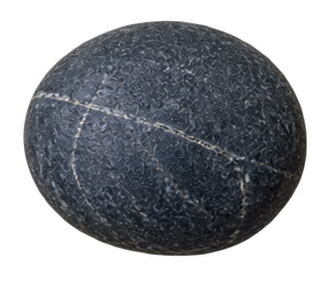
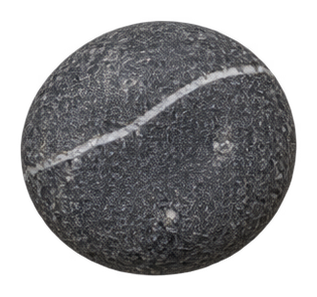
Add files via upload

diff --git a/index.html b/index.html
@@ -1,1 +1,1 @@
-<!doctype html><html lang="ko"><head><meta charset="utf-8"><meta name="viewport" content="width=device-width,initial-scale=1"><title>나만의 자연 생물 공방</title><link rel="stylesheet" href="style.css"></head><body><header><a href="./">🌿 나만의 자연 <strong>생물 공방</strong></a><span>4학년 과학 · 생물과 환경</span><small id="autosave">이 기기에 자동 저장</small></header><main><section><div class="topline"><div><small>돌과 나뭇잎으로 생물의 모습을 표현해요</small><h1>내 손으로 만드는 자연 친구</h1></div><div class="actions"><button id="help">사용 방법</button><button id="download" class="primary">↓ 작품 이미지 저장</button></div></div><div class="personalSettings"><label>배경<select id="paper"><option value="#ffffff">흰색</option><option value="#f5f7eb">연한 초록</option><option value="#e0f2fa">연한 하늘</option><option value="#fff5e8">연한 크림</option><option value="#1c2e40">밤하늘</option><option value="transparent">투명 배경</option></select></label><label>배경 색<input id="paperColor" type="color" value="#ffffff"></label><label><input id="includeCaption" type="checkbox" checked> 저장 이미지에 이름·설명 넣기</label><span id="ready">자연 재료를 준비하고 있어요…</span></div><div id="editor" class="editor"><aside><h3>자연 재료</h3><p>눌러서 추가하거나 끌어 넣어요.</p><div class="filters"><button data-filter="leaf">나뭇잎</button><button data-filter="stone">돌</button><button data-filter="all">전체</button></div><div id="materials"></div><small>사진처럼 제작한 자연 재료 이미지</small></aside><div><div class="tools"><button data-mode="select" class="active">↖ 이동</button><button data-mode="pen">✎ 그리기</button><button data-mode="eraser">지우개</button><label>색<input id="color" type="color" value="#273e35"></label><label>굵기<input id="brush" type="range" min="2" max="40" value="8"></label><button id="undo">↶ 취소</button><button id="redo">↷ 다시</button></div><canvas id="canvas" width="1000" height="700" aria-label="생물 꾸미기 작업판"></canvas><div class="tools"><button id="smaller">작게</button><button id="bigger">크게</button><button id="rotate">회전 ↻</button><button id="flip">뒤집기</button><button id="front">맨 앞으로</button><button id="remove">선택 삭제</button><button id="clear">모두 지우기</button></div><div class="caption"><label>생물 이름<input id="title" maxlength="30" placeholder="어떤 생물을 표현했나요?"></label><label>표현한 특징<input id="description" maxlength="120" placeholder="예: 돌로 몸을, 나뭇잎으로 날개를 표현했어요."></label></div><p class="hint">이동 도구에서 한 손가락으로 옮기고, 두 손가락으로 확대·축소·회전해요. 눈, 다리, 무늬는 그려 넣어요. 완성한 작품은 위쪽 이미지 저장 버튼으로 내려받아요.</p></div></div></section></main><div id="toast" role="status"></div><dialog id="helpDialog"><button id="closeHelp">닫기 ✕</button><h2>나만의 생물 만들기</h2><ol><li>만들고 싶은 생물을 정해요.</li><li>나뭇잎·돌을 누르면 작업판에 추가돼요. PC에서는 끌어 넣어도 돼요.</li><li>이동 도구에서 이동 도구에서 한 손가락으로 옮기고, 두 손가락으로 확대·축소·회전해요.</li><li>그리기로 눈·다리·무늬를 넣어요. 지우개는 지나간 위치의 그림과 재료를 지워요.</li><li>생물 이름과 표현한 특징을 적어요.</li><li>작품 이미지 저장을 누르면 PNG로 내려받아요.</li></ol><p>갤럭시탭에서는 가로로 사용하면 작업판이 더 크게 보여요.</p></dialog><script src="app.js" defer></script></body></html>
+<!doctype html><html lang="ko"><head><meta charset="utf-8"><meta name="viewport" content="width=device-width,initial-scale=1"><title>나만의 자연 생물 공방</title><link rel="stylesheet" href="style.css"></head><body><header><a href="./">🌿 나만의 자연 <strong>생물 공방</strong></a><span>4학년 과학 · 생물과 환경</span><small id="autosave">이 기기에 자동 저장</small></header><main><section><div class="topline"><div><small>돌과 나뭇잎으로 생물의 모습을 표현해요</small><h1>내 손으로 만드는 자연 친구</h1></div><div class="actions"><button id="help">사용 방법</button><button id="download" class="primary">↓ 작품 이미지 저장</button></div></div><div class="personalSettings"><label>배경<select id="paper"><option value="#ffffff">흰색</option><option value="#f5f7eb">연한 초록</option><option value="#e0f2fa">연한 하늘</option><option value="#fff5e8">연한 크림</option><option value="#1c2e40">밤하늘</option><option value="transparent">투명 배경</option></select></label><label>배경 색<input id="paperColor" type="color" value="#ffffff"></label><label><input id="includeCaption" type="checkbox" checked> 저장 이미지에 이름·설명 넣기</label><span id="ready">자연 재료를 준비하고 있어요…</span></div><div id="editor" class="editor"><aside><h3>자연 재료</h3><p>눌러서 추가하거나 끌어 넣어요.</p><div class="filters"><button data-filter="leaf">나뭇잎</button><button data-filter="stone">돌</button><button data-filter="all">전체</button></div><div id="materials"></div><small>사진처럼 제작한 자연 재료 이미지</small></aside><div><div class="tools"><button data-mode="select" class="active">↖ 이동</button><button data-mode="pen">✎ 그리기</button><button data-mode="eraser">지우개</button><label>색<input id="color" type="color" value="#273e35"></label><label>굵기<input id="brush" type="range" min="2" max="40" value="8"></label><button id="undo">↶ 취소</button><button id="redo">↷ 다시</button></div><canvas id="canvas" width="1000" height="700" aria-label="생물 꾸미기 작업판"></canvas><div class="tools"><button id="smaller">작게</button><button id="bigger">크게</button><button id="rotate">회전 ↻</button><button id="flip">뒤집기</button><button id="front">맨 앞으로</button><button id="remove">선택 삭제</button><button id="clear">모두 지우기</button></div><div class="caption"><label>생물 이름<input id="title" maxlength="30" placeholder="어떤 생물을 표현했나요?"></label><label>표현한 특징<input id="description" maxlength="120" placeholder="예: 돌로 몸을, 나뭇잎으로 날개를 표현했어요."></label></div><p class="hint">이동 도구에서 한 손가락으로 옮기고, 두 손가락으로 확대·축소·회전해요. 눈, 다리, 무늬는 그려 넣어요. 완성한 작품은 위쪽 이미지 저장 버튼으로 내려받아요.</p></div></div></section></main><div id="toast" role="status"></div><dialog id="helpDialog"><button id="closeHelp">닫기 ✕</button><h2>나만의 생물 만들기</h2><ol><li>만들고 싶은 생물을 정해요.</li><li>나뭇잎·돌을 누르면 작업판에 추가돼요. PC에서는 끌어 넣어도 돼요.</li><li>이동 도구에서 이동 도구에서 한 손가락으로 옮기고, 두 손가락으로 확대·축소·회전해요.</li><li>그리기로 눈·다리·무늬를 넣어요. 지우개는 지나간 위치의 그림과 재료를 지워요.</li><li>생물 이름과 표현한 특징을 적어요.</li><li>작품 이미지 저장을 누르면 PNG로 내려받아요.</li></ol><p>갤럭시탭에서는 가로로 사용하면 작업판이 더 크게 보여요.</p></dialog><script src="app.js?v=materials3" defer></script></body></html>

diff --git a/app.js b/app.js
@@ -3,9 +3,9 @@ const $=id=>document.getElementById(id);let objects=[],selected=null,mode='selec
 
 const toast=t=>{ $('toast').textContent=t;$('toast').style.display='block';clearTimeout(toast.timer);toast.timer=setTimeout(()=>$('toast').style.display='none',3500)};
 const safe=async f=>{try{await f()}catch(e){console.error(e);toast(e.message||'연결을 확인해 주세요.')}};
-const names=['초록 잎','버들잎','단풍잎','은행잎','붉은 잎','갈색 잎','고사리','둥근 잎','회색 돌','얼룩 돌','베이지 돌','흰 돌','검은 돌','갈색 돌','작은 돌','긴 돌'];
-await Promise.all(Array.from({length:16},(_,i)=>new Promise(resolve=>{const im=new Image();im.onload=()=>{images[i]=im;resolve()};im.onerror=resolve;im.src=`assets/material-${String(i+1).padStart(2,'0')}.png`})));
-function palette(filter='all'){ $('materials').replaceChildren();images.forEach((im,i)=>{if((filter==='leaf'&&i>7)||(filter==='stone'&&i<8))return;const b=document.createElement('button');b.title=names[i];const img=im.cloneNode();img.alt=names[i];img.draggable=true;img.ondragstart=e=>e.dataTransfer.setData('text/plain',String(i));b.append(img);b.onclick=()=>add(i,500,350);$('materials').append(b)})}palette();
+const names=['초록 잎','버들잎','단풍잎','은행잎','붉은 잎','갈색 잎','고사리','둥근 잎','회색 돌','얼룩 돌','베이지 돌','흰 돌','검은 돌','갈색 돌','작은 돌','긴 돌','노란 자작나무 낙엽','주황 느티나무 낙엽'];
+await Promise.all(Array.from({length:18},(_,i)=>new Promise(resolve=>{const im=new Image();im.onload=()=>{images[i]=im;resolve()};im.onerror=resolve;im.src=`assets/material-${String(i+1).padStart(2,'0')}.png?v=materials3`})));
+function palette(filter='all'){ $('materials').replaceChildren();images.forEach((im,i)=>{if((filter==='leaf'&&i>=8&&i<16)||(filter==='stone'&&(i<8||i>=16)))return;const b=document.createElement('button');b.title=names[i];const img=im.cloneNode();img.alt=names[i];img.draggable=true;img.ondragstart=e=>e.dataTransfer.setData('text/plain',String(i));b.append(img);b.onclick=()=>add(i,500,350);$('materials').append(b)})}palette();
 document.querySelectorAll('[data-filter]').forEach(b=>b.onclick=()=>palette(b.dataset.filter));
 const canvas=$('canvas'),ctx=canvas.getContext('2d');const position=(e,c=canvas)=>{const r=c.getBoundingClientRect();return {x:(e.clientX-r.left)*c.width/r.width,y:(e.clientY-r.top)*c.height/r.height}};
 function stash(){history.push(JSON.stringify(objects));if(history.length>40)history.shift();future=[]}
@@ -49,7 +49,7 @@ function finish(e){
  else if(!activePointers.size){gesture=null;if(drag){drag=null;changed();}}
 }
 canvas.onpointerup=finish;canvas.onpointercancel=finish;canvas.onlostpointercapture=finish;
-canvas.ondragover=e=>e.preventDefault();canvas.ondrop=e=>{e.preventDefault();const i=Number(e.dataTransfer.getData('text/plain'));if(Number.isInteger(i)&&i>=0&&i<16){const p=position(e);add(i,p.x,p.y)}};
+canvas.ondragover=e=>e.preventDefault();canvas.ondrop=e=>{e.preventDefault();const i=Number(e.dataTransfer.getData('text/plain'));if(Number.isInteger(i)&&i>=0&&i<18){const p=position(e);add(i,p.x,p.y)}};
 function alter(f){const o=objects.find(o=>o.id===selected);if(!o)return toast('먼저 재료를 선택하세요.');stash();f(o);changed()}
 $('smaller').onclick=()=>alter(o=>{o.w=Math.max(35,o.w*.85);o.h=Math.max(35,o.h*.85)});$('bigger').onclick=()=>alter(o=>{o.w=Math.min(700,o.w*1.15);o.h=Math.min(700,o.h*1.15)});$('rotate').onclick=()=>alter(o=>o.angle+=Math.PI/12);$('flip').onclick=()=>alter(o=>o.flip=!o.flip);$('front').onclick=()=>alter(o=>{objects=objects.filter(v=>v!==o);objects.push(o)});$('remove').onclick=()=>alter(o=>objects=objects.filter(v=>v!==o));$('clear').onclick=()=>{if(confirm('내 작업판을 모두 지울까요?')){stash();objects=[];changed()}};
 $('undo').onclick=()=>{if(history.length){future.push(JSON.stringify(objects));objects=JSON.parse(history.pop());selected=null;changed()}};$('redo').onclick=()=>{if(future.length){history.push(JSON.stringify(objects));objects=JSON.parse(future.pop());selected=null;changed()}};
@@ -65,5 +65,5 @@ function wrapText(t,text,maxWidth){const rows=[];let line='';for(const ch of tex
 function exportCanvas(){const c=document.createElement('canvas'),a=document.createElement('canvas');a.width=1000;a.height=700;render(a.getContext('2d'),objects,false);c.width=1600;const withCaption=$('includeCaption').checked&&($('title').value.trim()||$('description').value.trim());const t=c.getContext('2d');t.font='28px sans-serif';const lines=wrapText(t,$('description').value.trim(),1480);c.height=1120+(withCaption?110+lines.length*40:0);const paper=$('paper').value==='custom'?$('paperColor').value:$('paper').value;if(paper!=='transparent'){t.fillStyle=paper;t.fillRect(0,0,c.width,c.height)}t.drawImage(a,0,0,1600,1120);if(withCaption){t.fillStyle='#ffffff';t.fillRect(0,1120,1600,c.height-1120);t.fillStyle='#263f33';t.font='bold 38px sans-serif';t.fillText($('title').value.trim(),60,1180);t.font='28px sans-serif';lines.forEach((line,i)=>t.fillText(line,60,1225+i*40))}return c}
 $('help').onclick=()=>$('helpDialog').showModal();$('closeHelp').onclick=()=>$('helpDialog').close();
 try{const draft=JSON.parse(localStorage.getItem('nature-personal-draft-v1')||'null');if(draft&&Array.isArray(draft.objects)){objects=draft.objects;$('title').value=draft.title||'';$('description').value=draft.description||'';$('paper').value=draft.paper||'#ffffff';$('paperColor').value=draft.paperColor||'#ffffff';$('includeCaption').checked=draft.includeCaption!==false}}catch{toast('임시 저장 자료를 불러오지 못했어요. 새로 만들 수 있어요.')}
-applyPaper();render();$('ready').textContent=images.filter(Boolean).length===16?'나뭇잎 8종 · 돌 8종 준비 완료':'일부 재료를 불러오지 못했어요. 새로고침해 주세요.';
+applyPaper();render();$('ready').textContent=images.filter(Boolean).length===18?'나뭇잎 10종 · 돌 8종 준비 완료':'일부 재료를 불러오지 못했어요. 새로고침해 주세요.';
 })();

diff --git a/README.md b/README.md
@@ -57,3 +57,6 @@ assets의 이미지는 실사 질감의 AI 생성 자연 재료입니다. 기존
 첫 손가락을 재료 위에 대고 두 번째 손가락을 작업판 안에 대세요. 이동·확대·회전을 한 동작으로 해도 실행 취소 한 번으로 되돌립니다. 그리기·지우개 도구에서는 추가 손가락으로 그림을 그리지 않습니다. 기존 크기·회전 버튼은 그대로 사용할 수 있습니다. 모둠 공동 장면에 제출된 전체 작품의 배치는 기존 한 손가락 이동 방식입니다.
 
 GitHub의 app.js와 index.html을 이번 파일로 교체하면 됩니다. 기존 assets·Firebase 설정·Firestore 규칙은 그대로 사용합니다. 실제 갤럭시탭 터치 동작은 배포 후 확인하세요.
+
+## 자연 재료 이미지 업데이트
+돌 8종을 여백이 충분한 실사 이미지로 교체하여 가장자리 잘림과 옆 돌 조각이 섞이는 문제를 수정했습니다. 노란 자작나무 낙엽·주황 느티나무 낙엽 2종을 추가해 나뭇잎은 총 10종, 돌은 8종입니다. GitHub의 assets 폴더 전체, app.js, index.html을 교체하세요. 두 손가락 조작 기능은 유지합니다.
